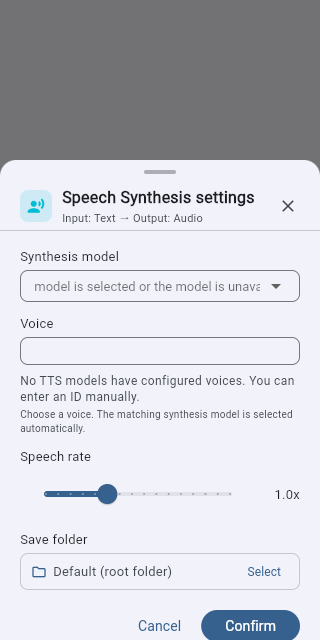
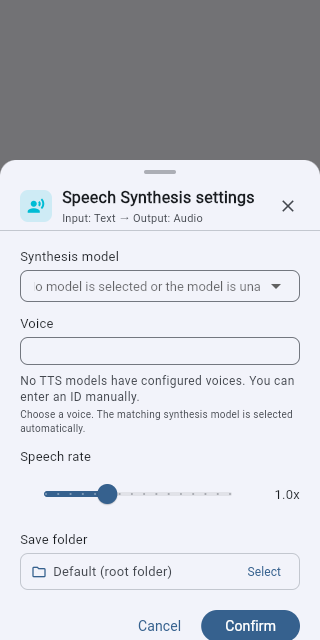
fix(qa): capture TTS voice hint after blur
Ensure the saved QA image reflects the unfocused dialog state.

Changed region(s): [[0.0938, 0.4375, 0.8125, 0.4688]]

diff --git a/tools/qa/task_flow_tts_voice_hint_capture.py b/tools/qa/task_flow_tts_voice_hint_capture.py
@@ -53,6 +53,12 @@ with sync_playwright() as playwright:
         if page.evaluate("devicePixelRatio") != 1:
             raise RuntimeError("Capture device pixel ratio was not 1")
         page.evaluate("document.activeElement.blur()")
+        page.evaluate(
+            """() => new Promise(resolve => requestAnimationFrame(
+                () => requestAnimationFrame(resolve)
+            ))"""
+        )
+        screenshot = page.screenshot()
         if errors:
             raise RuntimeError(f"Browser reported runtime errors: {errors}")
         OUTPUT.write_bytes(screenshot)
